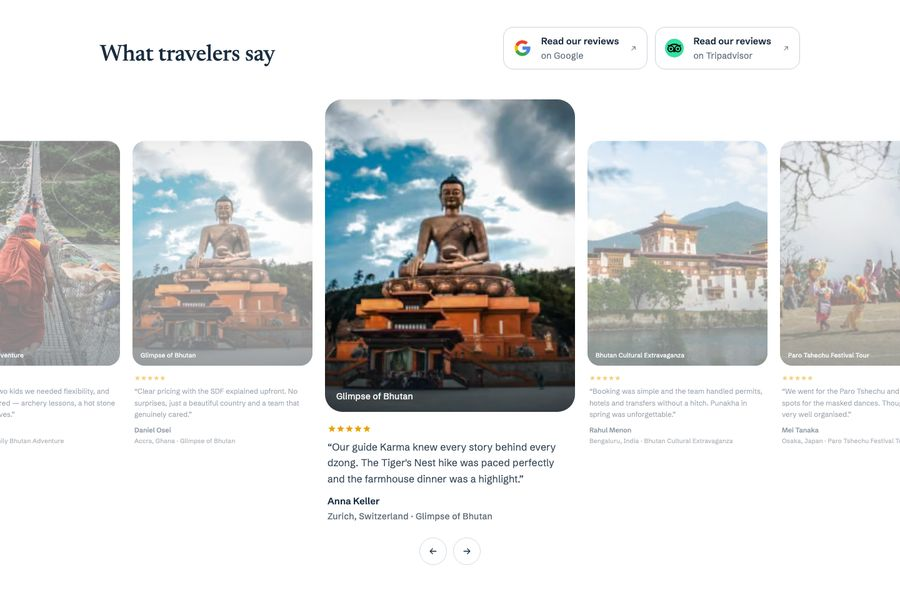
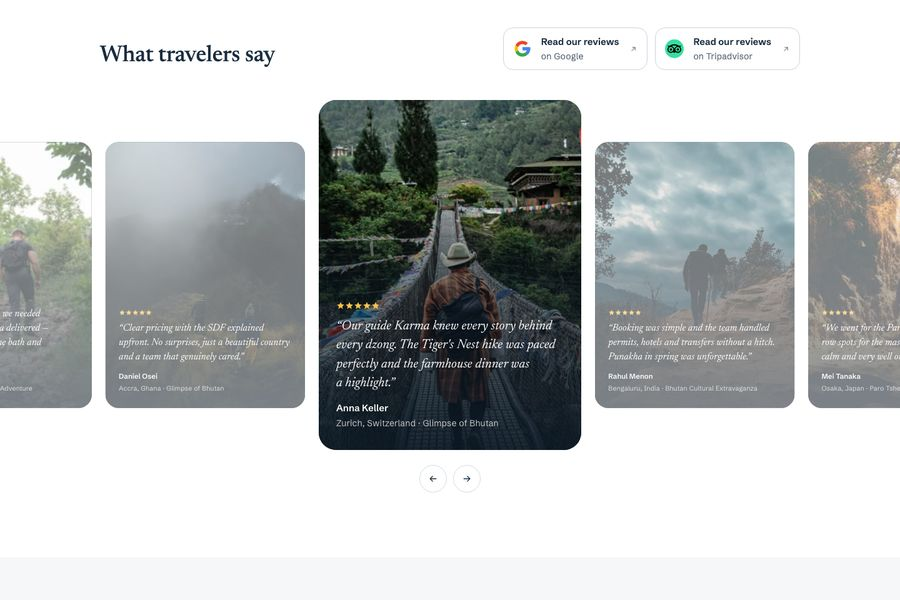
Reviews as photo cards with guest photos; faint header line on scroll
- Each review is one photo card: stars, serif quote and guest line on a
  dark fade at the bottom; the centred card is large, neighbours step back
- Sample testimonials get traveller photos (people seen from behind or at
  a distance, so no identifiable face is tied to a sample quote); guest
  photos now have their own alt text field in the Studio
- Header gets a very light line and soft shadow once the page scrolls

diff --git a/studio/schemaTypes/singletons.ts b/studio/schemaTypes/singletons.ts
@@ -86,7 +86,8 @@ export const reviews = defineType({
               type: 'image',
               options: {hotspot: true},
               description:
-                'A photo of the guest on their trip — only with their permission. The first review shows it large; the others as a small portrait. Drag the focal point onto their face. Without a photo, the tour’s own picture is shown.',
+                'A photo of the guest on their trip — only with their permission. The review in the middle of the slider shows it large. Drag the focal point onto the person. Without a photo, the tour’s own picture is shown.',
+              fields: [defineField({name: 'alt', title: 'Describe the photo', type: 'string', description: 'What the photo shows, e.g. "Two hikers on the trail to Tiger’s Nest".'})],
             }),
           ],
           preview: {select: {title: 'name', subtitle: 'text', media: 'photo'}},
